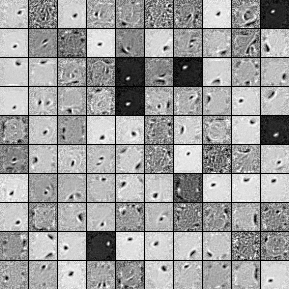
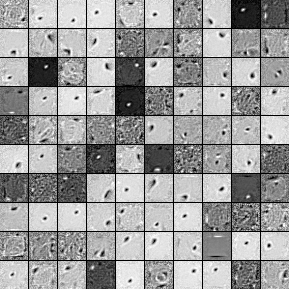
Add irma stuff

diff --git a/run_mnist.py b/run_mnist.py
@@ -1,0 +1,184 @@
+from __future__ import print_function
+
+
+
+import os
+import sys
+import timeit
+
+import numpy
+
+import theano
+import theano.tensor as T
+from theano.tensor.shared_randomstreams import RandomStreams
+
+from da import dA
+
+from utils import load_data, tile_raster_images
+
+try:
+    import PIL.Image as Image
+except ImportError:
+    import Image
+
+
+
+learning_rate=0.1
+training_epochs=15
+dataset='mnist.pkl.gz'
+batch_size=20
+output_folder='dA_plots'
+
+"""
+This demo is tested on MNIST
+
+:type learning_rate: float
+:param learning_rate: learning rate used for training the DeNosing
+                      AutoEncoder
+
+:type training_epochs: int
+:param training_epochs: number of epochs used for training
+
+:type dataset: string
+:param dataset: path to the picked dataset
+
+"""
+datasets = load_data(dataset)
+train_set_x, train_set_y = datasets[0]
+
+# compute number of minibatches for training, validation and testing
+n_train_batches = train_set_x.get_value(borrow=True).shape[0]
+
+# start-snippet-2
+# allocate symbolic variables for the data
+index = T.lscalar()    # index to a [mini]batch
+x = T.matrix('x')  # the data is presented as rasterized images
+# end-snippet-2
+
+if not os.path.isdir(output_folder):
+    os.makedirs(output_folder)
+os.chdir(output_folder)
+
+####################################
+# BUILDING THE MODEL NO CORRUPTION #
+####################################
+
+rng = numpy.random.RandomState(123)
+theano_rng = RandomStreams(rng.randint(2 ** 30))
+
+da = dA(
+    numpy_rng=rng,
+    theano_rng=theano_rng,
+    input=x,
+    n_visible=28 * 28,
+    n_hidden=28 * 28 / 2
+)
+
+cost, updates = da.get_cost_updates(
+    corruption_level=0.,
+    learning_rate=learning_rate
+)
+
+train_da = theano.function(
+    [index],
+    cost,
+    updates=updates,
+    givens={
+        x: train_set_x[index * batch_size: (index + 1) * batch_size]
+    }
+)
+
+start_time = timeit.default_timer()
+
+############
+# TRAINING #
+############
+
+# go through training epochs
+for epoch in range(training_epochs):
+    # go through trainng set
+    c = []
+    for batch_index in range(n_train_batches):
+        c.append(train_da(batch_index))
+
+    print('Training epoch %d, cost ' % epoch, numpy.mean(c))
+
+end_time = timeit.default_timer()
+
+training_time = (end_time - start_time)
+
+print(('The no corruption code for file ' +
+       os.path.split(__file__)[1] +
+       ' ran for %.2fm' % ((training_time) / 60.)), file=sys.stderr)
+image = Image.fromarray(
+    tile_raster_images(X=da.W.get_value(borrow=True).T,
+                       img_shape=(28, 28), tile_shape=(10, 10),
+                       tile_spacing=(1, 1)))
+image.save('filters_corruption_0.png')
+
+
+
+
+# start-snippet-3
+#####################################
+# BUILDING THE MODEL CORRUPTION 30% #
+#####################################
+
+rng = numpy.random.RandomState(123)
+theano_rng = RandomStreams(rng.randint(2 ** 30))
+
+da = dA(
+    numpy_rng=rng,
+    theano_rng=theano_rng,
+    input=x,
+    n_visible=28 * 28,
+    n_hidden=28 * 28 / 2
+)
+
+cost, updates = da.get_cost_updates(
+    corruption_level=0.3,
+    learning_rate=learning_rate
+)
+
+train_da = theano.function(
+    [index],
+    cost,
+    updates=updates,
+    givens={
+        x: train_set_x[index * batch_size: (index + 1) * batch_size]
+    }
+)
+
+start_time = timeit.default_timer()
+
+############
+# TRAINING #
+############
+
+# go through training epochs
+for epoch in range(training_epochs):
+    # go through trainng set
+    c = []
+    for batch_index in range(n_train_batches):
+        c.append(train_da(batch_index))
+
+    print('Training epoch %d, cost ' % epoch, numpy.mean(c))
+
+end_time = timeit.default_timer()
+
+training_time = (end_time - start_time)
+
+print(('The 30% corruption code for file ' +
+       os.path.split(__file__)[1] +
+       ' ran for %.2fm' % (training_time / 60.)), file=sys.stderr)
+# end-snippet-3
+
+# # start-snippet-4
+image = Image.fromarray(tile_raster_images(
+    X=da.W.get_value(borrow=True).T,
+    img_shape=(28, 28), tile_shape=(10, 10),
+    tile_spacing=(1, 1)))
+image.save('filters_corruption_30.png')
+# # end-snippet-4
+
+os.chdir('../')

diff --git a/run_irma.py b/run_irma.py
@@ -13,8 +13,10 @@ import theano.tensor as T
 from theano.tensor.shared_randomstreams import RandomStreams
 
 from da import dA
+import gzip
+import pickle
 
-from utils import load_data, tile_raster_images
+from utils import tile_raster_images
 
 try:
     import PIL.Image as Image
@@ -25,26 +27,20 @@ except ImportError:
 
 learning_rate=0.1
 training_epochs=15
-dataset='mnist.pkl.gz'
+dataset='file.pklz'
 batch_size=20
-output_folder='dA_plots'
+output_folder='irma_plots'
 
-"""
-This demo is tested on MNIST
+new_path = os.path.join(os.path.split(__file__)[0], "data", dataset)
 
-:type learning_rate: float
-:param learning_rate: learning rate used for training the DeNosing
-                      AutoEncoder
+with gzip.open(new_path, 'rb') as f:
+    train_set, test_set = pickle.load(f)
 
-:type training_epochs: int
-:param training_epochs: number of epochs used for training
+train_x, train_paths = train_set
+train_set_x = theano.shared(numpy.asarray(train_x, dtype=theano.config.floatX), borrow=True)
 
-:type dataset: string
-:param dataset: path to the picked dataset
-
-"""
-datasets = load_data(dataset)
-train_set_x, train_set_y = datasets[0]
+test_x, test_paths = train_set
+test_set_x = theano.shared(numpy.asarray(test_x, dtype=theano.config.floatX), borrow=True)
 
 # compute number of minibatches for training, validation and testing
 n_train_batches = train_set_x.get_value(borrow=True).shape[0]
@@ -70,8 +66,8 @@ da = dA(
     numpy_rng=rng,
     theano_rng=theano_rng,
     input=x,
-    n_visible=28 * 28,
-    n_hidden=500
+    n_visible=32 * 32,
+    n_hidden=32 * 32 / 2
 )
 
 cost, updates = da.get_cost_updates(
@@ -98,7 +94,6 @@ start_time = timeit.default_timer()
 for epoch in range(training_epochs):
     # go through trainng set
     c = []
-    print(c)
     for batch_index in range(n_train_batches):
         c.append(train_da(batch_index))
 
@@ -113,11 +108,22 @@ print(('The no corruption code for file ' +
        ' ran for %.2fm' % ((training_time) / 60.)), file=sys.stderr)
 image = Image.fromarray(
     tile_raster_images(X=da.W.get_value(borrow=True).T,
-                       img_shape=(28, 28), tile_shape=(10, 10),
+                       img_shape=(32, 32), tile_shape=(10, 10),
                        tile_spacing=(1, 1)))
 image.save('filters_corruption_0.png')
 
 
+# latent_rep = da.get_latent_representation()
+# print(latent_rep)
+# print(latent_rep.tag.test_value)
+
+
+def transform(X):
+    z = da.get_prediction()
+    predict_da = theano.function([x],z)
+    return predict_da(X)
+
+X_prime = transform(train_set_x)
 
 
 # start-snippet-3
@@ -132,8 +138,8 @@ da = dA(
     numpy_rng=rng,
     theano_rng=theano_rng,
     input=x,
-    n_visible=28 * 28,
-    n_hidden=500
+    n_visible=32 * 32,
+    n_hidden=32 * 32 / 2
 )
 
 cost, updates = da.get_cost_updates(
@@ -177,7 +183,7 @@ print(('The 30% corruption code for file ' +
 # # start-snippet-4
 image = Image.fromarray(tile_raster_images(
     X=da.W.get_value(borrow=True).T,
-    img_shape=(28, 28), tile_shape=(10, 10),
+    img_shape=(32, 32), tile_shape=(10, 10),
     tile_spacing=(1, 1)))
 image.save('filters_corruption_30.png')
 # # end-snippet-4

diff --git a/test.py b/test.py
@@ -1,0 +1,44 @@
+__author__ = 'vps'
+
+import cPickle, gzip, numpy
+
+# Trying to understand how MNIST is stored
+
+f = gzip.open('data/mnist.pkl.gz', 'rb')
+
+# tuple of train, validation and test set
+train_set, valid_set, test_set = cPickle.load(f)
+
+f.close()
+
+# train_set is a tuple, first element is 2-d np array, 2nd element is 1d np array of class
+X, y = train_set
+
+
+print(len(X[0]))
+
+print(type(train_set))
+print(len(train_set))
+
+print(type(train_set[0]))
+print(len(train_set[0]))
+
+print(type(train_set[1]))
+print(len(train_set[1]))
+
+# try our images
+
+f1 = gzip.open('data/file.pklz', 'rb')
+
+# tuple of train, validation and test set
+train, test = cPickle.load(f1)
+
+f.close()
+
+# train_set is a tuple, first element is 2-d np array, 2nd element is 1d np array of class
+X_train, paths = train
+
+print(len(X_train[0]))
+print(len(X_train))
+
+print("")

diff --git a/da_wrapper.py b/da_wrapper.py
@@ -84,4 +84,3 @@ class DenoisingAutoencoder(BaseEstimator):
         predict_da = theano.function([self.x],h)
         return predict_da(X)
 
-
